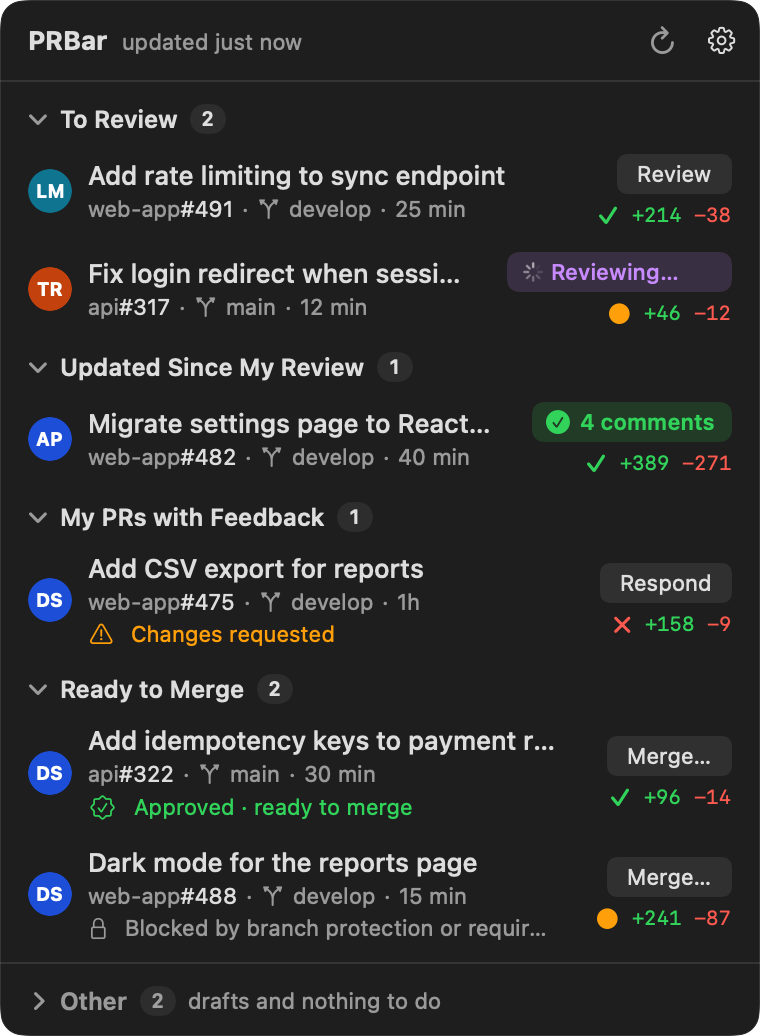
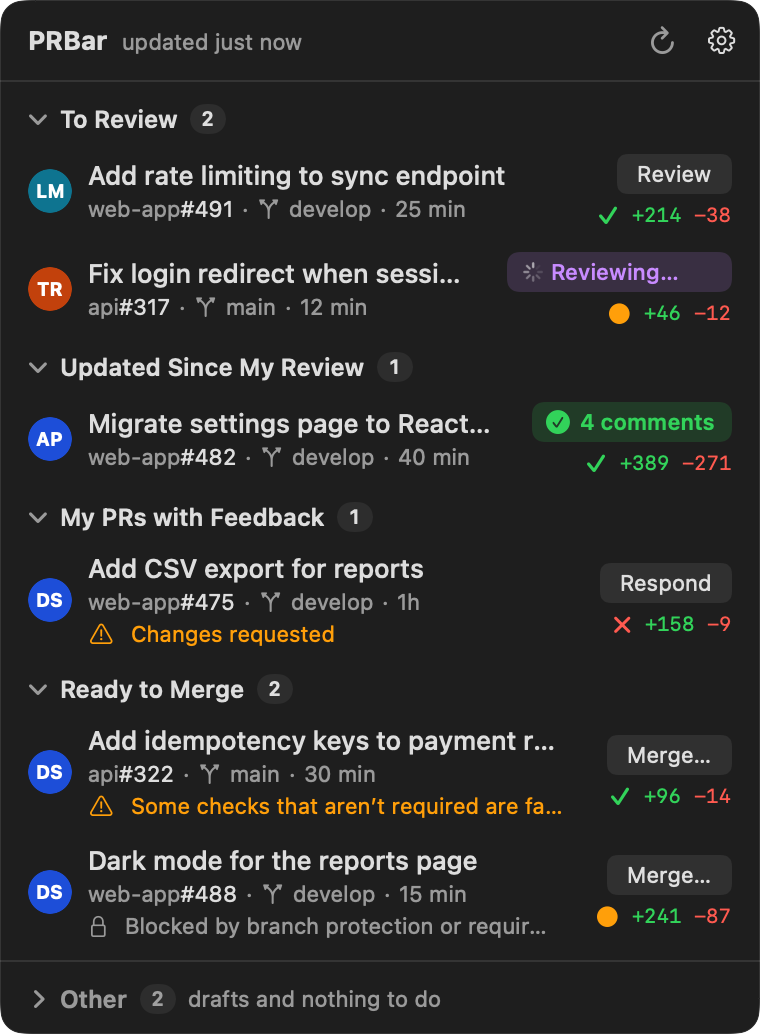
Capture the merge window

diff --git a/Sources/PRBar/Snapshots/SnapshotFixtures.swift b/Sources/PRBar/Snapshots/SnapshotFixtures.swift
@@ -525,7 +525,7 @@ extension SnapshotFixtures {
                  head: "feat/idempotency-keys", ci: .success, adds: 96, dels: 14, updated: -30, category: .readyToMerge,
                  account: Self.personal, lastCommit: -60 * 3,
                  reviews: [PRReview(author: "tomas-r", isBot: false, state: .approved, submittedAt: date(minutes: -40))]),
-            status: .clean, commits: 3
+            status: .unstable, commits: 3
         )
     }
 
@@ -565,5 +565,74 @@ extension SnapshotFixtures {
                                 commitCount: commits)
         )
         return ClassifiedPR(pr: approved, category: .readyToMerge, account: base.account)
+    }
+}
+
+// MARK: Merge window (plan 11)
+
+extension SnapshotFixtures {
+    /// What the Merge window of api#322 shows: approved, one check that isn't required failing, one conversation open.
+    var idempotencyDetail: MergeDetail {
+        let pr = idempotencyKeys.pr
+        func check(_ name: String, _ state: MergeCheck.State, required: Bool, seconds: Int?, kind: MergeCheck.Kind = .checkRun) -> MergeCheck {
+            let started = date(minutes: -170)
+            return MergeCheck(name: name, kind: kind, state: state, isRequired: required,
+                              url: URL(string: "https://github.com/acme/api/actions/runs/1\(name.count)"),
+                              startedAt: started, completedAt: seconds.map { started.addingTimeInterval(TimeInterval($0)) })
+        }
+        return MergeDetail(
+            number: pr.number, title: pr.title,
+            body: """
+            Payment retries could charge a customer twice when the provider times out **after** accepting the charge.
+
+            This adds an `Idempotency-Key` header to every retry, derived from the order ID, and keeps the keys for 24 h.
+
+            - Retries reuse the key of the first attempt
+            - Keys expire with the order
+            - New metric: `payments.retry.duplicate_prevented`
+
+            Closes #301.
+            """,
+            url: pr.url, author: pr.author, authorAvatarURL: nil, baseRef: pr.baseRef, headRef: pr.headRef, headOid: pr.headOid,
+            additions: pr.additions, deletions: pr.deletions, commitCount: 3, mergeable: .mergeable, status: .unstable,
+            reviewDecision: .approved,
+            reviews: [
+                MergeReviewSummary(author: "tomas-r", avatarURL: nil, state: .approved, submittedAt: date(minutes: -40)),
+                MergeReviewSummary(author: "lucia-m", avatarURL: nil, state: .approved, submittedAt: date(minutes: -75)),
+                MergeReviewSummary(author: "ana-p", avatarURL: nil, state: .commented, submittedAt: date(minutes: -150)),
+            ],
+            pendingReviewers: ["payments-team"],
+            checks: [
+                check("build", .passed, required: true, seconds: 134),
+                check("unit-tests", .passed, required: true, seconds: 242),
+                check("integration-tests", .passed, required: false, seconds: 368),
+                check("lint", .failed, required: false, seconds: 41),
+                check("codecov/patch", .passed, required: false, seconds: nil, kind: .status),
+                check("deploy-preview", .running, required: false, seconds: nil),
+            ],
+            checksTotal: 6, unresolvedThreads: 1, totalThreads: 3,
+            files: [
+                MergeChangedFile(path: "src/payments/idempotency.ts", additions: 48, deletions: 0, change: .added),
+                MergeChangedFile(path: "src/payments/retry.ts", additions: 19, deletions: 9, change: .modified),
+                MergeChangedFile(path: "src/payments/provider/client.ts", additions: 6, deletions: 2, change: .modified),
+                MergeChangedFile(path: "src/metrics/payments.ts", additions: 4, deletions: 0, change: .modified),
+                MergeChangedFile(path: "src/payments/legacyRetry.ts", additions: 0, deletions: 3, change: .removed),
+                MergeChangedFile(path: "test/payments/idempotency.test.ts", additions: 17, deletions: 0, change: .added),
+                MergeChangedFile(path: "docs/payments.md", additions: 2, deletions: 0, change: .modified),
+            ],
+            changedFiles: 7)
+    }
+
+    /// The chat of api#322's Merge window: why lint failed and whether it matters.
+    var mergeChat: ChatSession {
+        var session = ChatSession(prID: idempotencyKeys.id, kind: .merge)
+        session.claudeSessionID = UUID(uuidString: "5A1E2B3C-4D5E-4F60-8A7B-9C0D1E2F3A4B")
+        session.messages = [
+            ChatMessage(role: .user, text: "Why did lint fail? Is it safe to merge anyway?", createdAt: date(minutes: -6)),
+            ChatMessage(role: .assistant,
+                        text: "Lint flags an unused import in `src/payments/retry.ts` (`clamp`): it doesn’t change behavior and the check isn’t required. The open conversation asks for a test of a retry after the key expired, which `idempotency.test.ts` doesn’t cover yet.",
+                        createdAt: date(minutes: -5)),
+        ]
+        return session
     }
 }

diff --git a/Sources/PRBar/Snapshots/SnapshotMode.swift b/Sources/PRBar/Snapshots/SnapshotMode.swift
@@ -86,6 +86,7 @@ private final class SnapshotSession {
 
         try await reviewWindows(model: main)
         try await respondWindows(model: main)
+        try await mergeWindows(model: main)
         try await history()
         try await settings()
         try await notification()
@@ -261,6 +262,29 @@ private final class SnapshotSession {
         }
         try await window("respond-chat", title: title, size: NSSize(width: 1180, height: 1140)) {
             RespondWindow(model: model, prID: prID, draft: draft, chat: model.respondChat(for: draft), showsChat: true, close: {})
+        }
+    }
+
+    /// The Merge window of api#322 (spec G.2), with its summary loaded, without and with the chat (spec G.4).
+    private func mergeWindows(model: AppModel) async throws {
+        let item = fixtures.idempotencyKeys
+        let title = "Merge · \(item.pr.repo.name)#\(item.pr.number)"
+        var record = MergeRecord(item: item, startedAt: fixtures.date(minutes: -8))
+        let detail = fixtures.idempotencyDetail
+        let session = MergeSession(window: MergeWindowModel(prID: item.id, recordID: record.id, detail: detail) { detail },
+                                   record: record)
+        model.mergeSessions[item.id] = session
+        try await window("merge-window", title: title, size: NSSize(width: 760, height: 1100)) {
+            MergeWindow(model: model, session: session)
+        }
+        record = MergeRecord(item: item, startedAt: fixtures.date(minutes: -8))
+        record.chat = fixtures.mergeChat
+        let chatSession = MergeSession(window: MergeWindowModel(prID: item.id, recordID: record.id, detail: detail) { detail },
+                                       record: record)
+        model.mergeSessions[item.id] = chatSession
+        _ = model.mergeChat(prID: item.id)
+        try await window("merge-chat", title: title, size: NSSize(width: 1180, height: 1100)) {
+            MergeWindow(model: model, session: chatSession, showsChat: true)
         }
     }
 

diff --git a/docs/screenshots/README.md b/docs/screenshots/README.md
@@ -29,7 +29,8 @@ Every screen comes in `-light` and `-dark`, at 2x:
 | `respond-choose` | Respond: choosing what to do with 3 comments (fix, reply, fix + reply) |
 | `respond-ready-to-push` | Respond: 2 commits, the diff, the `package.json` warning, tests passed, Push and Reply |
 | `respond-chat` | Respond, ready to push, with the chat open: a reply drafted for a reviewer and a change to the fixes’ code |
-| `merge-confirm` | The confirmation before merging: PR, commits, merge method popup and "Squash and Merge" |
+| `merge-window` | The Merge window: description, reviews, checks, unresolved conversations, files, and the bar with the method, the head and "Squash and Merge" |
+| `merge-chat` | The Merge window with the read-only chat open |
 | `history` | The History window with 6 reviews and responses, one selected |
 | `settings-general`, `settings-claude`, `settings-instructions`, `settings-accounts`, `settings-repos`, `settings-slack` | Each Settings tab, configured |
 | `notification` | **An illustration** of the "Review Ready" notification, not a capture of the real macOS banner |
